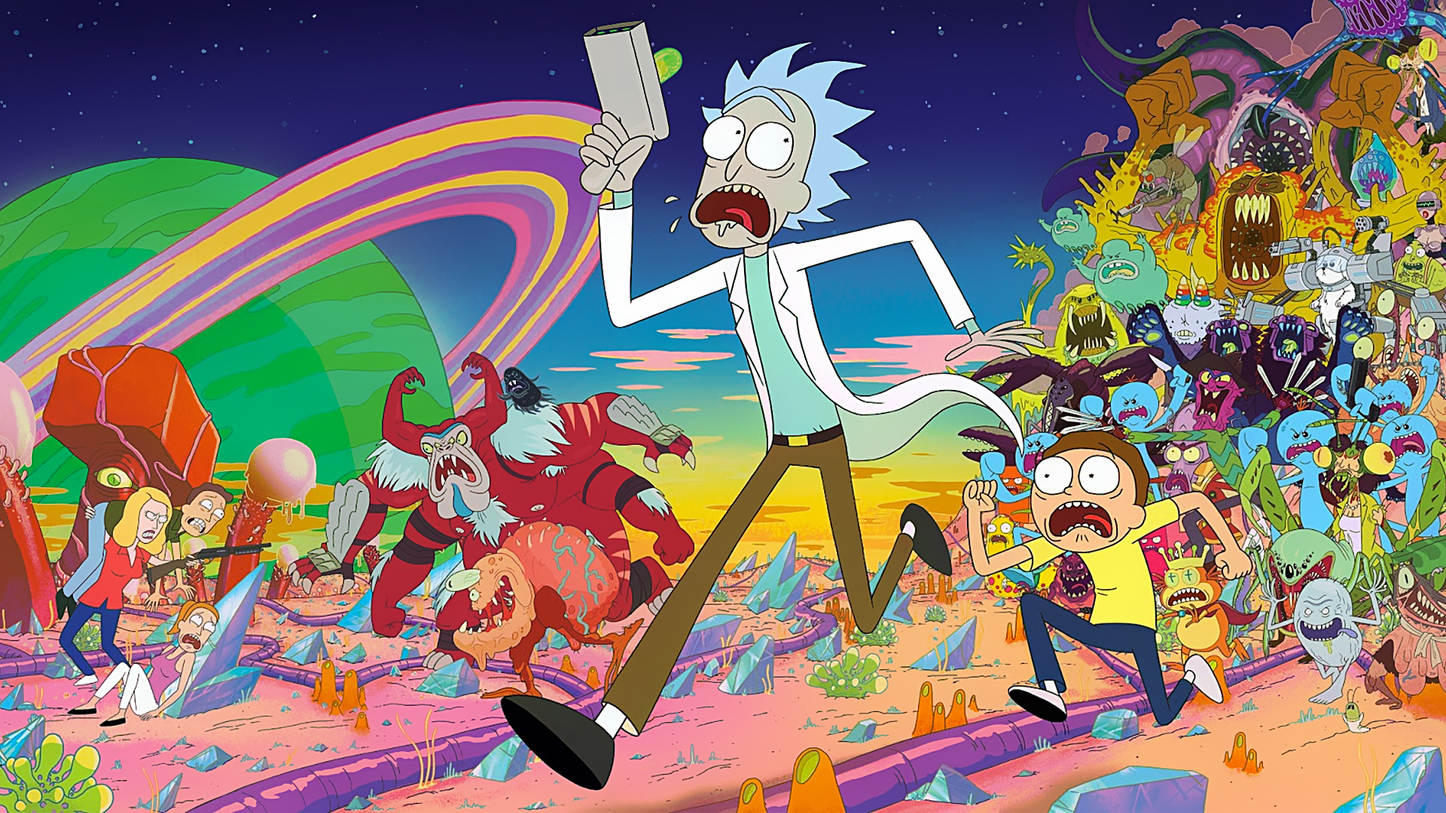
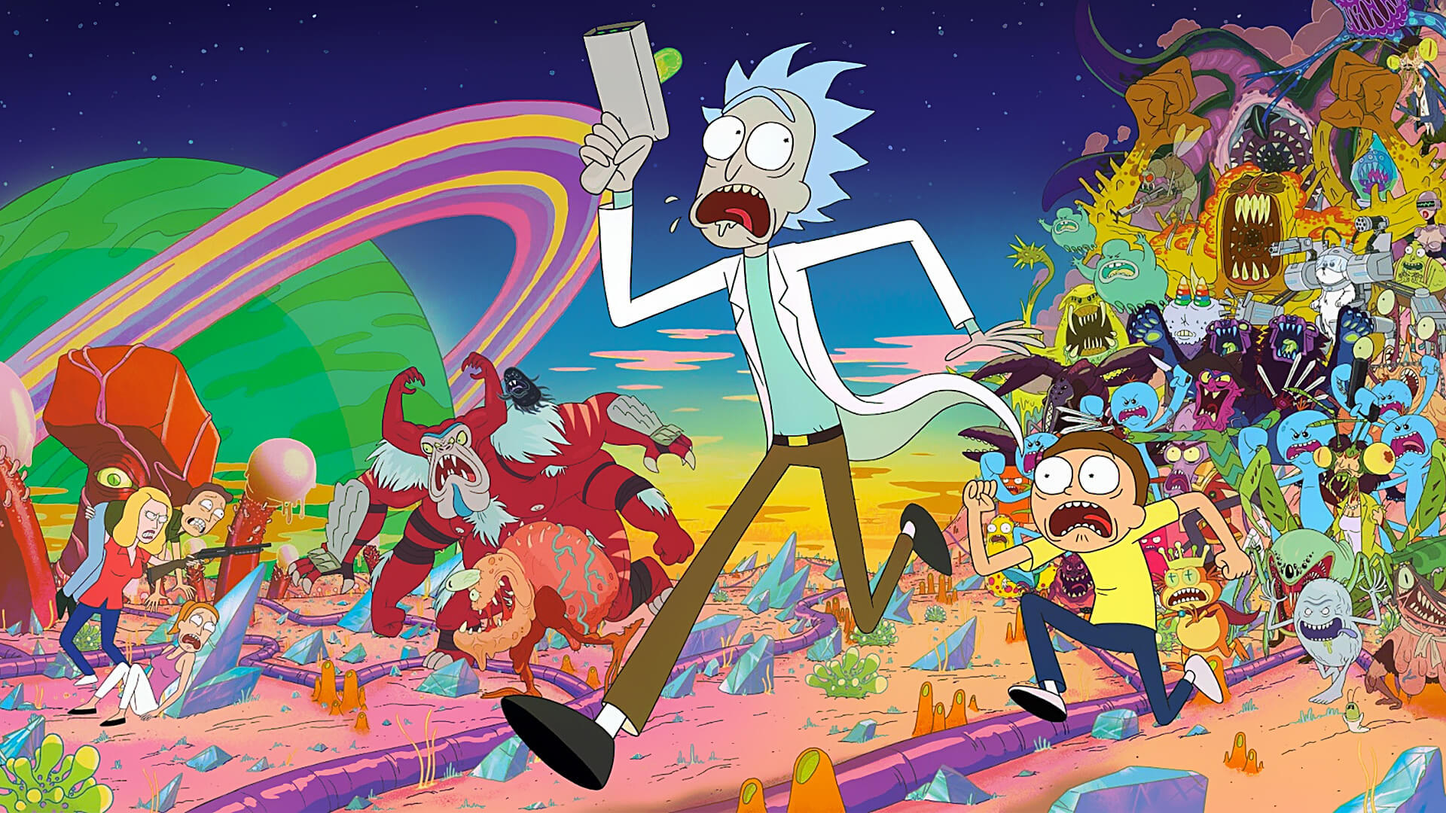
Reduce size of images

Changed region(s): [[0.75, 0.6417, 0.7812, 0.6722], [0.6562, 0.3972, 0.6875, 0.4278], [0.5, 0.2139, 0.5312, 0.2444]]

diff --git a/public/index.html b/public/index.html
@@ -19,7 +19,7 @@
       src="https://kit.fontawesome.com/484a8bea3a.js"
       crossorigin="anonymous"
     ></script>
-    <title>React App</title>
+    <title>Rick and Morty</title>
   </head>
   <body>
     <noscript>You need to enable JavaScript to run this app.</noscript>
